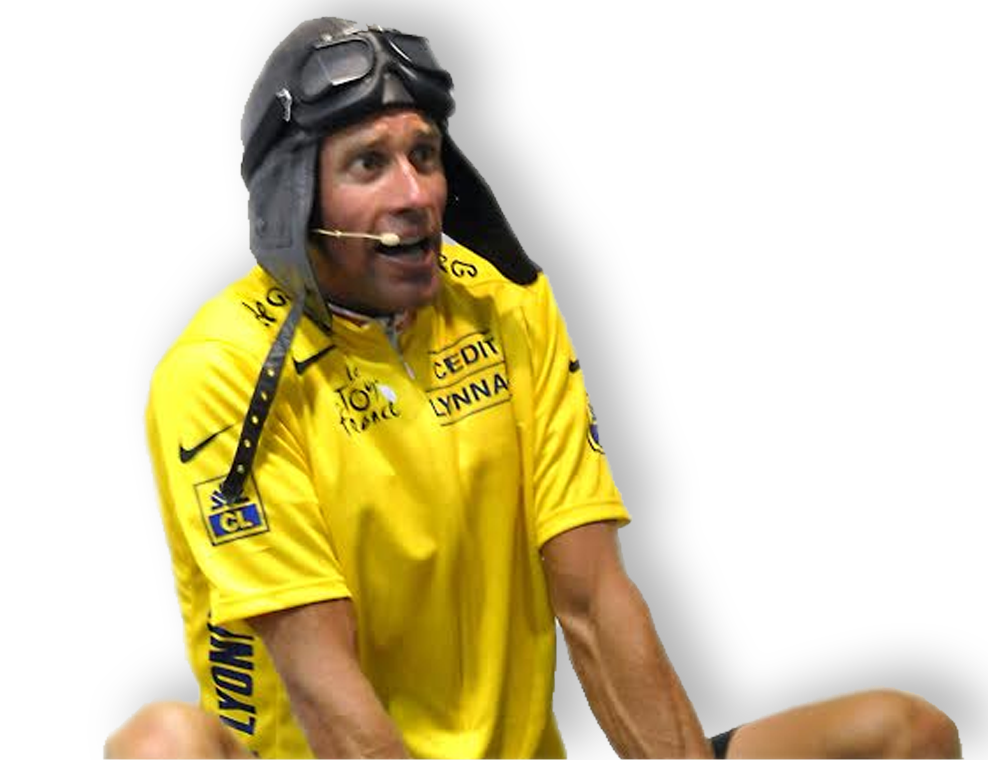
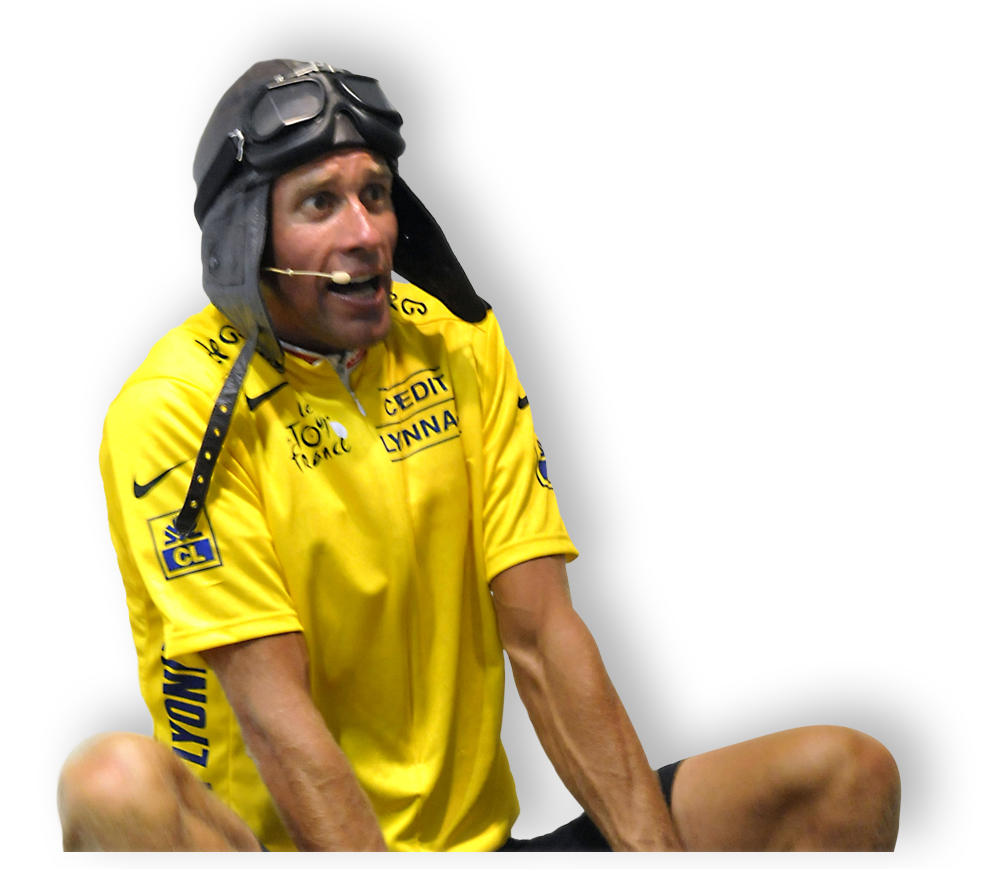
Changed images to good ones

diff --git a/client/sass/views/_bio.scss b/client/sass/views/_bio.scss
@@ -3,7 +3,7 @@
 
 	img {
 		display: inline-block;
-		margin:-34px 25px 0 -250px;
+		margin:-127px 25px 0 -250px;
 		vertical-align: middle;
 	}
 
